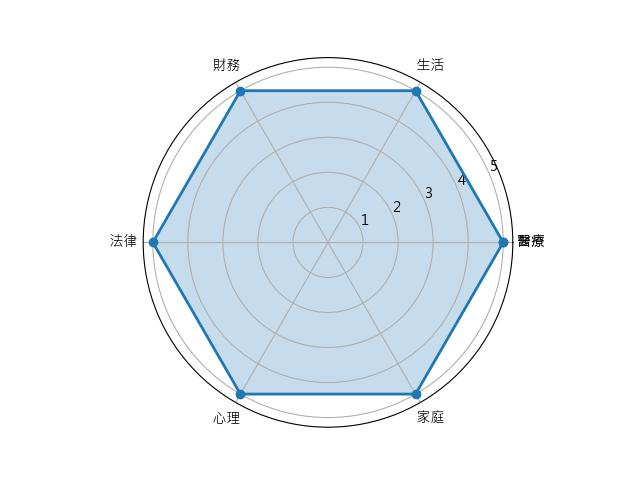
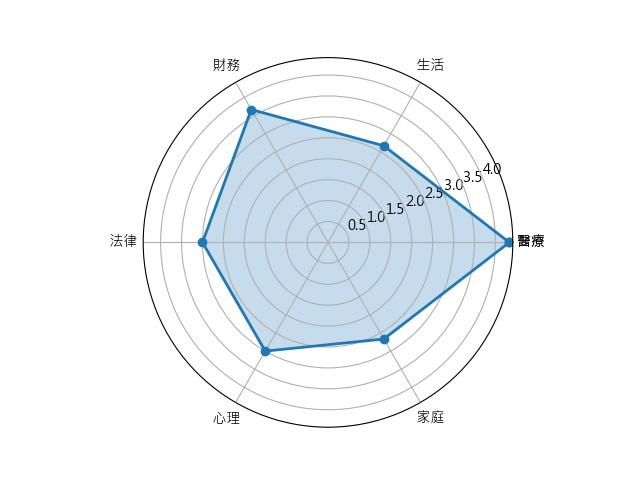
ladar

diff --git a/templates/survey/survey.html b/templates/survey/survey.html
@@ -6,10 +6,13 @@
    <p> user: {{ userprofile.user }}
     <p>照護經驗  {{ userprofile.care_time }}
 
-         <!--有經驗的-->
-          <form method="post" enctype="multipart/form-data">
+         <form method="post" enctype="multipart/form-data">
           {% csrf_token %}
+   <div class="accordion" id="accordionExample">
+            <div class="accordion-item">
+                     <h2 class="accordion-header" id="headingOne">
             {{ form.as_p }}
+                     </h2></div></div>
             <input type="submit" value="雷達圖分析">
             </form>
 

diff --git a/app/forms.py b/app/forms.py
@@ -56,54 +56,96 @@ class InhabitantsForm(forms.ModelForm):
         fields = ['birth', 'city', 'resident', 'disease', 'mobility'
             , 'difficulty_care', 'life_difficulty', 'cohabitant', 'resource', 'exception', 'budget']
 
+#有經驗的問卷
 
-class SurveyForm(forms.ModelForm):
+class ExperienceSurveyForm(forms.ModelForm):
     # 醫療
-    q1 = forms.ChoiceField(choices=SURVEY_CHOICE, label='看診時，你或家人能夠理解並實際執行醫生之指示？')
-    q2 = forms.ChoiceField(choices=SURVEY_CHOICE, label='你或家人有足夠的儲蓄面對照顧狀況？')
-    q3 = forms.ChoiceField(choices=SURVEY_CHOICE, label='你或家人總是能夠陪伴照顧對象去門診？')
-    q4 = forms.ChoiceField(choices=SURVEY_CHOICE, label='你或家人能夠搜尋附近的醫療資源？')
-    q5 = forms.ChoiceField(choices=SURVEY_CHOICE, label='你知道此病症未來可能發生的變化？')
+    q1 = forms.CharField(widget=forms.RadioSelect(choices=SURVEY_CHOICE), label='看診時，你或家人能夠理解並實際執行醫生之指示？')
+    q2 = forms.CharField(widget=forms.RadioSelect(choices=SURVEY_CHOICE), label='你或家人有足夠的儲蓄面對照顧狀況？')
+    q3 = forms.CharField(widget=forms.RadioSelect(choices=SURVEY_CHOICE), label='你或家人總是能夠陪伴照顧對象去門診？')
+    q4 = forms.CharField(widget=forms.RadioSelect(choices=SURVEY_CHOICE), label='你或家人能夠搜尋附近的醫療資源？')
+    q5 = forms.CharField(widget=forms.RadioSelect(choices=SURVEY_CHOICE), label='你知道此病症未來可能發生的變化？')
     # 生活
-    q6 = forms.ChoiceField(choices=SURVEY_CHOICE,
+    q6 = forms.CharField(widget=forms.RadioSelect(choices=SURVEY_CHOICE),
                          label='你知道外籍看護、台籍看護、銀髮住宅、機構、日照或護理之家等照顧選項的優缺點？')
-    q7 = forms.ChoiceField(choices=SURVEY_CHOICE, label='你知道照顧過程與親人病症，可能遇到的潛在風險？')
-    q8 = forms.ChoiceField(choices=SURVEY_CHOICE, label='當你需要協助時，可以找到其他人協助照顧？')
-    q9 = forms.ChoiceField(choices=SURVEY_CHOICE,
+    q7 = forms.CharField(widget=forms.RadioSelect(choices=SURVEY_CHOICE), label='你知道照顧過程與親人病症，可能遇到的潛在風險？')
+    q8 = forms.CharField(widget=forms.RadioSelect(choices=SURVEY_CHOICE), label='當你需要協助時，可以找到其他人協助照顧？')
+    q9 = forms.CharField(widget=forms.RadioSelect(choices=SURVEY_CHOICE),
                          label='你或家人能夠協助照顧親人的日常起居（例如：三餐、穿衣、社交、外出......等）？')
-    q10 = forms.ChoiceField(choices=SURVEY_CHOICE,
+    q10 = forms.CharField(widget=forms.RadioSelect(choices=SURVEY_CHOICE),
                           label='你或家人能夠執行每日親人的身體照顧需求（例如：肢體運動、翻身拍背、如廁、盥洗……等）？')
 
     # 財務
-    q11 = forms.ChoiceField(choices=SURVEY_CHOICE, label='親人是否有儲蓄能夠支付自己的照顧相關費用？')
-    q12 = forms.ChoiceField(choices=SURVEY_CHOICE, label='親人是否願意將個人儲蓄用在自己的照顧相關費用上？')
-    q13 = forms.ChoiceField(choices=SURVEY_CHOICE, label='你是否能估計親人的醫療與照顧相關費用，所衍伸的花費金額？')
-    q14 = forms.ChoiceField(choices=SURVEY_CHOICE, label='你清楚可選擇的照顧選項之中，政府所提供的各項補助金額與申請條件？')
-    q15 = forms.ChoiceField(choices=SURVEY_CHOICE, label='你是否有評估過自己理想老後照顧方式所需之費用，並提前進行規劃與儲蓄？')
+    q11 = forms.CharField(widget=forms.RadioSelect(choices=SURVEY_CHOICE), label='親人是否有儲蓄能夠支付自己的照顧相關費用？')
+    q12 = forms.CharField(widget=forms.RadioSelect(choices=SURVEY_CHOICE), label='親人是否願意將個人儲蓄用在自己的照顧相關費用上？')
+    q13 = forms.CharField(widget=forms.RadioSelect(choices=SURVEY_CHOICE), label='你是否能估計親人的醫療與照顧相關費用，所衍伸的花費金額？')
+    q14 = forms.CharField(widget=forms.RadioSelect(choices=SURVEY_CHOICE), label='你清楚可選擇的照顧選項之中，政府所提供的各項補助金額與申請條件？')
+    q15 = forms.CharField(widget=forms.RadioSelect(choices=SURVEY_CHOICE), label='你是否有評估過自己理想老後照顧方式所需之費用，並提前進行規劃與儲蓄？')
     # 法律
-    q16 = forms.ChoiceField(choices=SURVEY_CHOICE, label='你認為長輩於生活中口頭承諾遺產分配，是否能夠產生法律效益呢？')
-    q17 = forms.ChoiceField(choices=SURVEY_CHOICE,
+    q16 = forms.CharField(widget=forms.RadioSelect(choices=SURVEY_CHOICE), label='你認為長輩於生活中口頭承諾遺產分配，是否能夠產生法律效益呢？')
+    q17 = forms.CharField(widget=forms.RadioSelect(choices=SURVEY_CHOICE),
                           label='你是否知道，主要照顧者能藉由設定契約、信託、意定監護等方式，保障勞力與金錢長期付出對應之權益嗎？')
-    q18 = forms.ChoiceField(choices=SURVEY_CHOICE,
+    q18 = forms.CharField(widget=forms.RadioSelect(choices=SURVEY_CHOICE),
                           label='你是否知道，若要避免維生醫療與侵入性治療（氣切、CPR...等），需提前申請並依規定簽署相關證明文件嗎？')
-    q19 = forms.ChoiceField(choices=SURVEY_CHOICE, label='你認為你的親友之間，是否會因為照顧責任或財產問題告上法庭？')
-    q20 = forms.ChoiceField(choices=SURVEY_CHOICE, label='你是否考慮過，讓長輩提前進行遺產規劃並預立遺囑來減少家中的紛爭？')
+    q19 = forms.CharField(widget=forms.RadioSelect(choices=SURVEY_CHOICE), label='你認為你的親友之間，是否會因為照顧責任或財產問題告上法庭？')
+    q20 = forms.CharField(widget=forms.RadioSelect(choices=SURVEY_CHOICE), label='你是否考慮過，讓長輩提前進行遺產規劃並預立遺囑來減少家中的紛爭？')
     # 心理
-    q21 = forms.ChoiceField(choices=SURVEY_CHOICE, label='日常照顧過程中，你是否擁有一段自己獨處的時間\空間，放鬆與轉換心情？')
-    q22 = forms.ChoiceField(choices=SURVEY_CHOICE, label='在家中，是否有其他家人能夠共同討論照顧上的壓力？')
-    q23 = forms.ChoiceField(choices=SURVEY_CHOICE, label='是否會因為照顧的親人的身心狀況嚴重產生不捨或者同情，影響到照顧的情緒？')
-    q24 = forms.ChoiceField(choices=SURVEY_CHOICE, label='你是否會因為照顧時間太長，時長感到憤怒、疲憊與壓力大？')
-    q25 = forms.ChoiceField(choices=SURVEY_CHOICE, label='你面對照顧負面情緒時，你是否有管道能夠抒發壓力？')
+    q21 = forms.CharField(widget=forms.RadioSelect(choices=SURVEY_CHOICE), label='日常照顧過程中，你是否擁有一段自己獨處的時間\空間，放鬆與轉換心情？')
+    q22 = forms.CharField(widget=forms.RadioSelect(choices=SURVEY_CHOICE), label='在家中，是否有其他家人能夠共同討論照顧上的壓力？')
+    q23 = forms.CharField(widget=forms.RadioSelect(choices=SURVEY_CHOICE), label='是否會因為照顧的親人的身心狀況嚴重產生不捨或者同情，影響到照顧的情緒？')
+    q24 = forms.CharField(widget=forms.RadioSelect(choices=SURVEY_CHOICE), label='你是否會因為照顧時間太長，時長感到憤怒、疲憊與壓力大？')
+    q25 = forms.CharField(widget=forms.RadioSelect(choices=SURVEY_CHOICE), label='你面對照顧負面情緒時，你是否有管道能夠抒發壓力？')
     # 家庭
-    q26 = forms.ChoiceField(choices=SURVEY_CHOICE, label='你的家人們，能夠針對照顧與醫療方式達成共識')
-    q27 = forms.ChoiceField(choices=SURVEY_CHOICE, label='在家中，是否有其他家人能夠共同討論照顧上的壓力？')
-    q28 = forms.ChoiceField(choices=SURVEY_CHOICE, label='親人是否有儲蓄能夠支付自己的照顧相關費用？')
-    q29 = forms.ChoiceField(choices=SURVEY_CHOICE,
+    q26 = forms.CharField(widget=forms.RadioSelect(choices=SURVEY_CHOICE), label='你的家人們，能夠針對照顧與醫療方式達成共識')
+    q27 = forms.CharField(widget=forms.RadioSelect(choices=SURVEY_CHOICE), label='在家中，是否有其他家人能夠共同討論照顧上的壓力？')
+    q28 = forms.CharField(widget=forms.RadioSelect(choices=SURVEY_CHOICE), label='親人是否有儲蓄能夠支付自己的照顧相關費用？')
+    q29 = forms.CharField(widget=forms.RadioSelect(choices=SURVEY_CHOICE),
                           label='是否有和其他家人同步每日照顧狀況（例如：看診紀錄、突發狀況、身體量測數字等等）的習慣？')
-    q30 = forms.ChoiceField(choices=SURVEY_CHOICE, label='你能夠與其他家人開啟照顧費用相關的討論 ，並取得共識？')
+    q30 = forms.CharField(widget=forms.RadioSelect(choices=SURVEY_CHOICE), label='你能夠與其他家人開啟照顧費用相關的討論 ，並取得共識？')
 
 
     class Meta:
         model = Survey
         fields = [field.name for field in Survey._meta.fields ]
         exclude = ['user',]
+
+
+#沒經驗的
+class NoExperienceSurveyForm(forms.ModelForm):
+    q1 = forms.CharField(widget=forms.RadioSelect(choices=SURVEY_CHOICE), label='看診時，你或家人能夠理解並實際執行醫生之指示？')
+    q2 = forms.CharField(widget=forms.RadioSelect(choices=SURVEY_CHOICE), label='你或家人有足夠的儲蓄面對照顧狀況？')
+    q3 = forms.CharField(widget=forms.RadioSelect(choices=SURVEY_CHOICE), label='你或家人總是能夠陪伴照顧對象去門診？')
+
+    q6 = forms.CharField(widget=forms.RadioSelect(choices=SURVEY_CHOICE),
+                           label='你知道外籍看護、台籍看護、銀髮住宅、機構、日照或護理之家等照顧選項的優缺點？')
+    q7 = forms.CharField(widget=forms.RadioSelect(choices=SURVEY_CHOICE), label='你知道照顧過程與親人病症，可能遇到的潛在風險？')
+    q8 = forms.CharField(widget=forms.RadioSelect(choices=SURVEY_CHOICE), label='當你需要協助時，可以找到其他人協助照顧？')
+
+
+    # 財務
+    q11 = forms.CharField(widget=forms.RadioSelect(choices=SURVEY_CHOICE), label='親人是否有儲蓄能夠支付自己的照顧相關費用？')
+    q12 = forms.CharField(widget=forms.RadioSelect(choices=SURVEY_CHOICE), label='親人是否願意將個人儲蓄用在自己的照顧相關費用上？')
+    q13 = forms.CharField(widget=forms.RadioSelect(choices=SURVEY_CHOICE), label='你是否能估計親人的醫療與照顧相關費用，所衍伸的花費金額？')
+
+    # 法律
+    q16 = forms.CharField(widget=forms.RadioSelect(choices=SURVEY_CHOICE), label='你認為長輩於生活中口頭承諾遺產分配，是否能夠產生法律效益呢？')
+    q17 = forms.CharField(widget=forms.RadioSelect(choices=SURVEY_CHOICE),
+                            label='你是否知道，主要照顧者能藉由設定契約、信託、意定監護等方式，保障勞力與金錢長期付出對應之權益嗎？')
+    q18 = forms.CharField(widget=forms.RadioSelect(choices=SURVEY_CHOICE),
+                            label='你是否知道，若要避免維生醫療與侵入性治療（氣切、CPR...等），需提前申請並依規定簽署相關證明文件嗎？')
+
+    # 心理
+    q21 = forms.CharField(widget=forms.RadioSelect(choices=SURVEY_CHOICE), label='日常照顧過程中，你是否擁有一段自己獨處的時間\空間，放鬆與轉換心情？')
+    q22 = forms.CharField(widget=forms.RadioSelect(choices=SURVEY_CHOICE), label='在家中，是否有其他家人能夠共同討論照顧上的壓力？')
+    q23 = forms.CharField(widget=forms.RadioSelect(choices=SURVEY_CHOICE), label='是否會因為照顧的親人的身心狀況嚴重產生不捨或者同情，影響到照顧的情緒？')
+
+    # 家庭
+    q26 = forms.CharField(widget=forms.RadioSelect(choices=SURVEY_CHOICE), label='你的家人們，能夠針對照顧與醫療方式達成共識')
+    q27 = forms.CharField(widget=forms.RadioSelect(choices=SURVEY_CHOICE), label='在家中，是否有其他家人能夠共同討論照顧上的壓力？')
+    q28 = forms.CharField(widget=forms.RadioSelect(choices=SURVEY_CHOICE), label='親人是否有儲蓄能夠支付自己的照顧相關費用？')
+
+
+    class Meta:
+        model = Survey
+        fields = [field.name for field in Survey._meta.fields]
+        exclude = ['user','q4','q5','q9','q10','q14','q15','q19','q20','q24','q25','q29','q30' ]

diff --git a/app/views.py b/app/views.py
@@ -6,7 +6,8 @@ from django.http import HttpResponse
 from django.shortcuts import render, redirect, get_object_or_404
 
 # Create your views here.
-from app.forms import UserRegisterForm, UserProfileForm, SurveyForm, LoginForm, InhabitantsForm
+from app.forms import UserRegisterForm, UserProfileForm, ExperienceSurveyForm, LoginForm, InhabitantsForm, \
+    NoExperienceSurveyForm
 from app.models import UserProfile, Survey, Inhabitants
 import numpy as np
 from matplotlib import pyplot as plt
@@ -92,7 +93,7 @@ def inhabitants(request):
             inhabitant = inhabitants_form.save(commit=False)
             inhabitant.user = user
             inhabitant.save()
-            return redirect('app:index')
+            return redirect('app:survey')
     else:
         inhabitants_form = InhabitantsForm()
 
@@ -104,10 +105,19 @@ def inhabitants(request):
                       , 'applyer': applyer})
 
 
-'''填寫問卷'''
-
-
 def survey(request):
+    user = request.user #
+    userprofile = UserProfile.objects.get(user=user)
+    if userprofile.care_time=='1':
+      return  redirect('app:no_experience_survey')
+    else:
+      return   redirect('app:experiencesurvey')
+
+
+'''填寫有經驗的問卷'''
+
+
+def ExperienceSurvey(request):
     survey_user: Survey
     user_id = request.user  # user object
     userprofile = UserProfile.objects.get(user=user_id)
@@ -116,8 +126,9 @@ def survey(request):
     is_biginer = False
     if userprofile.care_time == '1':
         is_biginer = True  # 沒經驗的
+
     if request.method == 'POST':
-        form = SurveyForm(request.POST)
+        form = ExperienceSurveyForm(request.POST)
         print(form.is_valid())
         if form.is_valid():
             survey_user = form.save(commit=False)
@@ -125,10 +136,33 @@ def survey(request):
             survey_user.save()
             return redirect('app:ladar')
     else:
-        form = SurveyForm()
+
+        form = ExperienceSurveyForm()
+
+
     return render(request, 'survey/survey.html',
                   {'form': form, 'userprofile': userprofile, 'is_biginer': is_biginer})
 
+
+
+def NoExperienceSurvey(request):
+    survey_user: Survey # survey model 的物件
+    user_id = request.user  # user object
+    userprofile = UserProfile.objects.get(user=user_id)
+    if request.method == 'POST':
+        form = NoExperienceSurveyForm(request.POST)
+        print(form.is_valid())
+        if form.is_valid():
+            survey_user = form.save(commit=False)
+            survey_user.user = userprofile.user
+            survey_user.save()
+            return redirect('app:ladar')
+    else:
+
+        form = NoExperienceSurveyForm()
+    print('here')
+    return render(request, 'survey/survey.html',
+                  {'form': form, 'userprofile': userprofile})
 
 '''雷達'''
 
@@ -139,26 +173,37 @@ def ladar(request):
     user_id = request.user
     userprofile = UserProfile.objects.get(user_id=user_id)
     s = Survey.objects.filter(user=user_id).last()
-    print(s)
+    q1 = int(s.q1)
+    q2 = int(s.q2)
+    q3 = int(s.q3)
+    q4 = int(s.q4)
+    q5 = int(s.q5)
+    q6 = int(s.q6)
+    q7 = int(s.q7)
+    q8 = int(s.q8)
+    q9 = int(s.q9)
+    q10 = int(s.q10)
+    q11 = int(s.q11)
+    q12 = int(s.q12)
+    q13 = int(s.q13)
+    q14 = int(s.q14)
+    q15 = int(s.q15)
+    q16 = int(s.q16)
+    q17 = int(s.q17)
+    q18 = int(s.q18)
+    q19 = int(s.q19)
+    q20 = int(s.q20)
+    q21 = int(s.q21)
+    q22 = int(s.q22)
+    q23 = int(s.q23)
+    q24 = int(s.q24)
+    q25 = int(s.q25)
+    q26 = int(s.q26)
+    q27 = int(s.q27)
+    q28 = int(s.q28)
+    q29 = int(s.q29)
+    q30 = int(s.q15)
     if userprofile.care_time == '1':
-        q1 = int(s.q1)
-        q2 = int(s.q2)
-        q3 = int(s.q3)
-        q6 = int(s.q6)
-        q7 = int(s.q7)
-        q8 = int(s.q8)
-        q11 = int(s.q11)
-        q12 = int(s.q12)
-        q13 = int(s.q13)
-        q16 = int(s.q16)
-        q17 = int(s.q17)
-        q18 = int(s.q18)
-        q21 = int(s.q21)
-        q22 = int(s.q22)
-        q23 = int(s.q23)
-        q26 = int(s.q26)
-        q27 = int(s.q27)
-        q28 = int(s.q28)
         v1 = (q1 + q2 + q3) / 15 * 5
         v2 = (q6 + q7 + q8) / 15 * 5
         v3 = (q11 + q12 + q13) / 15 * 5
@@ -166,11 +211,16 @@ def ladar(request):
         v5 = (q21 + q22 + q23) / 15 * 5
         v6 = (q26 + q27 + q28) / 15 * 5
     else:
-        pass
+        v1 = (q1 + q2 + q3+q4+q5) / 15 * 5
+        v2 = (q6 + q7 + q8+q9+q10) / 15 * 5
+        v3 = (q11 + q12 + q13+q14+q15) / 15 * 5
+        v4 = (q16 + q17 + q18+q19+q20) / 15 * 5
+        v5 = (q21 + q22 + q23+q24+q25) / 15 * 5
+        v6 = (q26 + q27 + q28+q29+q30) / 15 * 5
 
     labels = np.array([u"醫療 ", u" 生活 ", u" 財務 ", u" 法律 ", u" 心理 ", u" 家庭 "])
     stats = [v1, v2, v3, v4, v5, v6]
-    print(stats)
+    # print(stats)
 
     angles = np.linspace(0, 2 * np.pi, len(labels), endpoint=False)
     stats = np.concatenate((stats, [stats[0]]))

diff --git a/app/urls.py b/app/urls.py
@@ -17,7 +17,7 @@ from django.contrib import admin
 from django.urls import path
 from django.contrib.auth import views as auth_views
 
-from app.views import index, register,ladar,survey,user_login,inhabitants
+from app.views import index, register,ladar,ExperienceSurvey,user_login,inhabitants,survey,NoExperienceSurvey
 
 app_name = 'app'
 urlpatterns = [
@@ -28,5 +28,7 @@ urlpatterns = [
     path('inhabitants/',inhabitants,name='inhabitant'),
     path('ladar/',ladar,name='ladar'),
     path('survey/',survey,name='survey'),
+    path('experience_survey/',ExperienceSurvey,name='experiencesurvey'), #有照護經建的問卷
+    path('no_experience_survey/',NoExperienceSurvey,name='no_experience_survey'),# 沒照護經驗的問卷
     path('register/', register, name='register'),
 ]
